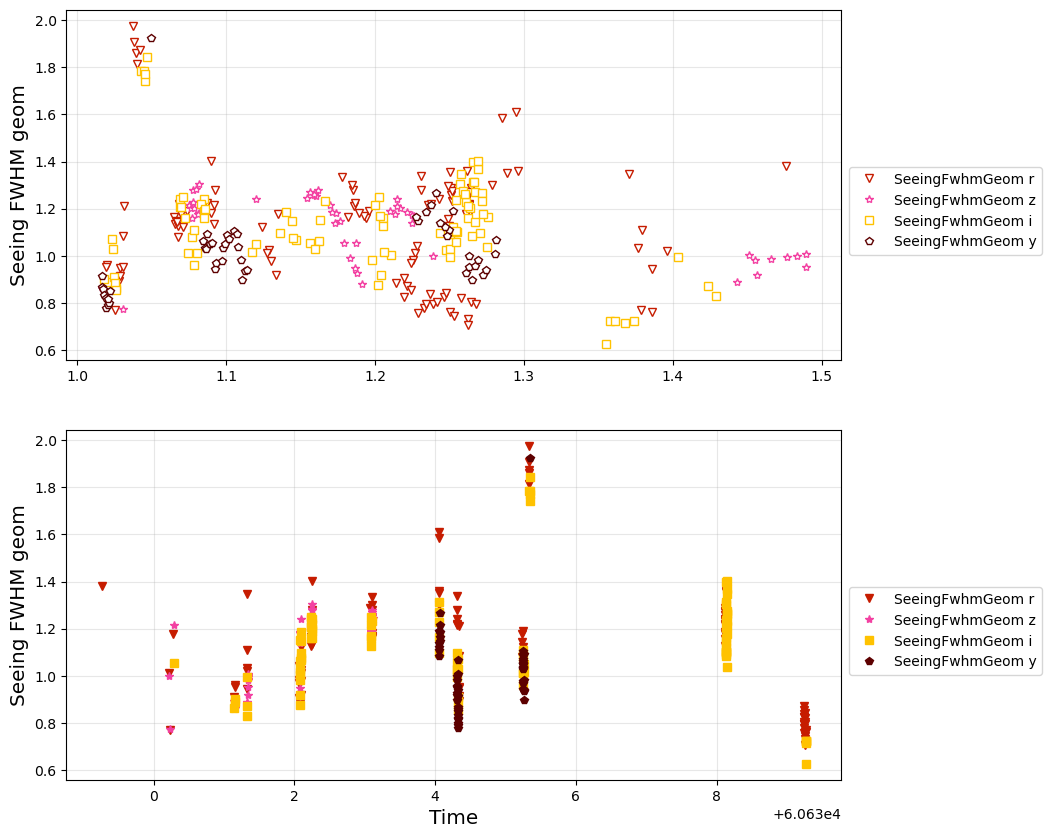
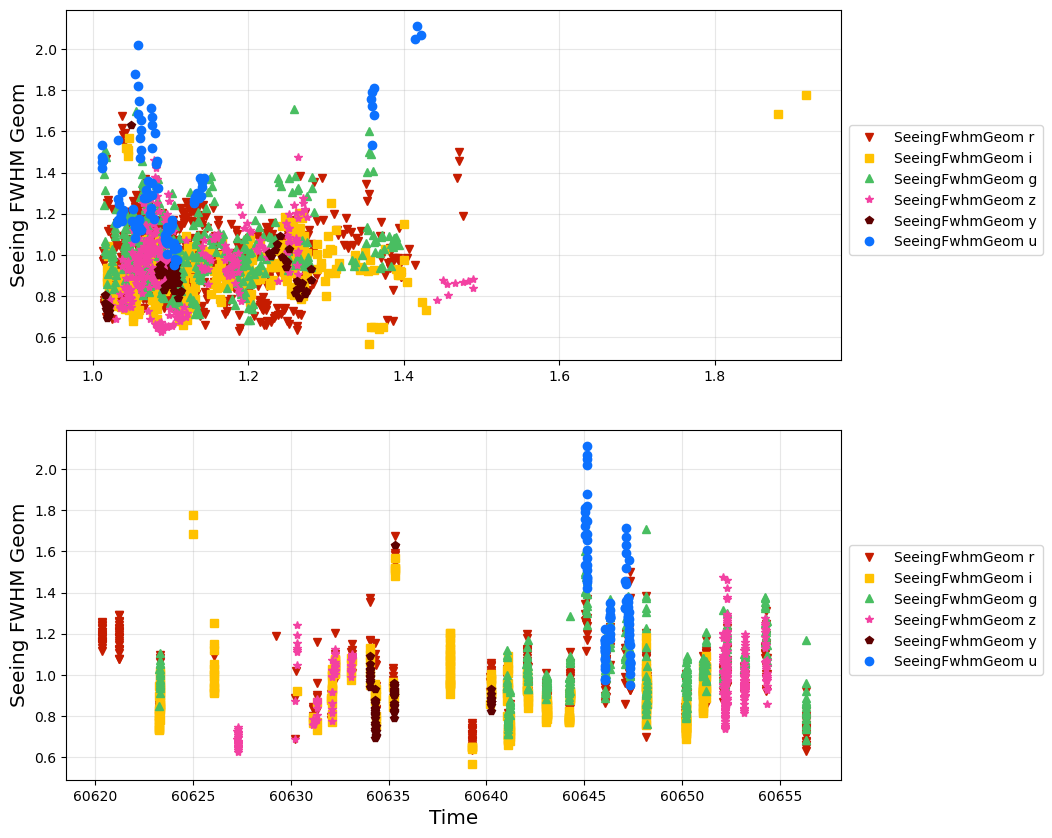
Update sky and seeing plots

diff --git a/survey_performance.tex b/survey_performance.tex
@@ -1,19 +1,17 @@
-Understanding and predicting survey performance includes modeling the likely input telemetry, the expected performance of the telescope and observatory, as well as understanding the survey strategy and its interaction with science outcomes.
+Understanding and predicting survey performance includes modeling the likely input telemetry, the expected performance of the telescope and observatory, as well as understanding the survey strategy and its interaction with science outcomes. At this point in commissioning, the operations of the observatory are focused on obtaining specific observations, with very different strategies than will be employed during operations. This includes very different configurations of the Feature Based Scheduler than would be suitable for survey operations. 
 
-At this point in commissioning, the operations of the observatory are focused on obtaining specific observations, with very different strategies than will be employed during operations. This includes very different configurations of the Feature Based Scheduler. Thus, we are not fully testing the Feature Based Scheduler as it would be used in operations yet, and have few comments about issues that may be related specifically to survey strategy implementation. 
+However, we can begin to evaluate how our models may be validated or not by the currently acquired observations.  Observations were acquired for many purposes, and sometimes purposefully in or out of focus. When identifying suitable observations for comparison purposes, the science observations acquired as part of BLOCK-320  and PP-SURVEY provide the most useful visits. In-focus images taken as part of AOS triplets can also be useful for some purposes. 
 
-However, we can begin to evaluate how our models may be validated or not by the currently acquired observations. Since observations were acquired for many purposes, and sometimes purposefully in or out of focus, the science program BLOCK-320 provides very useful comparison points. In-focus images taken as part of AOS triplets can also be useful for some purposes. And BLOCK-T345 provided an example of slews that are similar to how a standard survey pattern may execute. 
+In this section, information about zeropoints, sky background, and measured image psf is coming from the ConsDb, where these values are populated by Rapid Anaysis running on the summit. These values are only populated for ACQ or OBJECT images where existing calibration data is available. We also use the bad visit list maintained by DM (the \texttt{excluded\_visits} repo) to remove on the order of 100 visits which are clearly marked as bad -- typically due to trails. This leaves us with 5008 useful visits from the ComCam commissioning period.
 
-As we are pulling information about zeropoints, sky background, and measured image psf from the ConsDb, we are using values populated by Rapid Anaysis, running on the summit. These values are only populated for ACQ or OBJECT images where existing calibration data is available. We also use the bad visit list maintained by DM (the \texttt{excluded\_visits} repo) to remove on the order of 100 visits which are clearly marked as bad -- typically due to trails. This leaves us with 5008 exposures from the ComCam commissioning period.
-
-The throughput curves available in \texttt{syseng\_throughputs}, the repository that tracks current system engineering summaries of full-focal-plane throughputs, can be used to predict zeropoints for average ITL CCDs. See \url{https://github.com/lsst-pst/syseng\_throughputs/blob/main/notebooks/InterpolateZeropoint.ipynb}, where a simple interpolation function for filter and airmass is defined for the current throughputs (v1.9).  Looking at only the science program visits (BLOCK-320 and PP-SURVEY), where images could be expected to be in the best possible focus and obtained under more controlled sky conditions (and where all images have 30 second exposures), we can compare the predicted 30s zeropoints to the reported median visit zeropoints in the ConsDB (the column \texttt{visit1\_quicklook.zero\_point\_median}), as shown in \figRef{zeropoints}. It is worth noting that the $u$ band is a significant outlier in this comparison of predicted versus measured zeropoint; we believe this is the same issue as discussed in \secRef{absolutethroughputs}, so is the result of either a miscalibration in the synthetically-derived reference catalog generated for zeropoint calibration or a true underestimate of the system performance in $u$ band.  We find that the estimated zeropoints are fairly close to the achieved zeropoints, except in u band. The median offsets for the photometric nights in the science survey visits are:  u = -0.26, g = 0.14, r = 0.09, i = 0.10, z = 0.13, y = 0.18. 
+The throughput curves available in \texttt{syseng\_throughputs}, the repository that tracks current system engineering summaries of full-focal-plane throughputs, can be used to predict zeropoints for average ITL CCDs. See \url{https://github.com/lsst-pst/syseng\_throughputs/blob/main/notebooks/InterpolateZeropoint.ipynb}, where a simple interpolation function for filter and airmass is defined for the current throughputs (v1.9).  Looking at only the science program visits (BLOCK-320 and PP-SURVEY), where images could be expected to be in the best possible focus and obtained under more controlled sky conditions (and where all images have 30 second exposures), we can compare the predicted 30s zeropoints to the reported median visit zeropoints in the ConsDB (the column \texttt{visit1\_quicklook.zero\_point\_median}), as shown in \figRef{zeropoints}. It is worth noting that the $u$ band is a significant outlier in this comparison of predicted versus measured zeropoint; we believe this is the same issue as discussed in \secRef{absolutethroughputs}, so is the result of either a miscalibration in the synthetically-derived reference catalog generated for zeropoint calibration or a true underestimate of the system performance in $u$ band.  We find that the estimated zeropoints are fairly close to the achieved zeropoints, except in u band. The median offsets for the photometric nights (nights with scatter < 0.3 magnitudes; this is all science program nights except 20241126, 20241209 and 20241210) in the science survey visits are:  u = -0.26, g = 0.14, r = 0.09, i = 0.10, z = 0.13, y = 0.18. 
 
 We applied these offsets as corrections to the zeropoints for all visits, and after also adjusting the measured zeropoints for the exposure time, can compared 1 second predicted and adjusted zeropoints for all visits, as in \figRef{all_zeropoints}.  As an example of a non-photometric night, see also the visits from dayObs 20241210 shown in \figRef{zeropoints_dayobs_20241210}. 
 
 \begin{figure}
     \centering
     \includegraphics[width=0.7\textwidth]{sp/zeropoints.png}
-    \caption{Predicted zeropoints from syseng\_throughputs (accounting for airmass) compared to measured zeropoints from \texttt{cdb\_lsst.comcam.visits1\_quicklook},  for BLOCK-320 and PP-SURVEy visits, excluding dayObs 20241210 which was highly non-photometric. The offsets between predicted and measured zeropoints seen here can be used as a quick approximation for an updated zeropoint and applied to all visits.}
+    \caption{Predicted zeropoints from syseng\_throughputs (accounting for airmass) compared to measured zeropoints from \texttt{cdb\_lsst.comcam.visits1\_quicklook},  for BLOCK-320 and PP-SURVEY visits, excluding dayObs 20241126, 20241209 and  20241210. The offsets between predicted and measured zeropoints seen here can be used as a quick approximation for an updated zeropoint and applied to all visits.}
     \label{fig:zeropoints}
     \end{figure}
 
@@ -33,28 +31,31 @@ We applied these offsets as corrections to the zeropoints for all visits, and af
     \end{figure}
 
 
-Likewise, the survey simulations use a skybackground model as part of the model to determine five sigma visit depths and to choose observation pointings. The outputs available in the ConsDb include a \texttt{sky\_bg\_median} value, which is in counts per pixel. Together with an estimate of the platescale (0.2"/pixel) and a zeropoint, we can convert this into magnitudes per square arcsecond, to compare to the predicted values from the rubin\_scheduler skybrightness model. The results are shown in \figRef{sky}.  The values are also remarkably consistent, with a scatter of less than 0.15 magnitudes in all bands, and offsets within 0.1 magnitude except in y band, where the measured sky is 0.5 magnitudes brighter than expected. This is  within our expected errors in the skybackground model, particularly in y band where the sky is quite variable and harder to model.
+Likewise, the survey simulations use a sky background model as part of predicting five sigma visit depths and to choose observation pointings. The outputs available in the ConsDb include a \texttt{sky\_bg\_median} value, which is in counts per pixel. Together with an estimate of the plate scale (0.2"/pixel) and the zeropoint, we can convert this into magnitudes per square arcsecond, to compare to the predicted values from the rubin\_scheduler sky brightness model. The results are shown in \figRef{sky}, where the adjusted zeropoints with offsets defined above have been used. The measured values are very consistent with the model values for the nights excluding 20241210, with a scatter of less than 0.25 magnitudes in all bands. This is  within our expected errors in the sky background model, particularly in y band where the sky is quite variable and harder to model.
 
 \begin{figure}
     \centering
     \includegraphics[width=0.8\textwidth]{sp/sky.png}
     \caption{Predicted skybrightness values from \texttt{rubin\_sim.skybrightness} compared to
-      \texttt{sky\_bg\_median} converted to mags per sq arcsecond  from  from \texttt{visits1\_quicklook}.}
+      \texttt{sky\_bg\_median} converted to mags per sq arcsecond  using the adjusted zeropoints based on the values in  \texttt{visits1\_quicklook.zero\_point\_median}.}
     \label{fig:sky}
     \end{figure}
 
 
-We look forward to comparing seeing performance to survey predictions. Initial estimates indicate that the mean seeing for these visits was around 1.12 arcseconds, which isn't out of line with longer term survey expectations, especially given that we remain in the early stages of commissioning.
+We look forward to comparing seeing performance to survey predictions. Initial estimates indicate that the approximate equivalent of seeingFwhmEff for these visits had a mean of around 1.15 arcseconds, which isn't out of line with longer term survey expectations, where the mean value is around 1.12 arcseconds. This is particular impressive for this early phase of commissioning. 
 
 \begin{figure}
     \centering
     \includegraphics[width=0.8\textwidth]{sp/seeing.png}
-    \caption{Converting \texttt{psf\_sigma\_median} into the single-gaussian effective seeing PSF values.}
+    \caption{Values of \texttt{psf\_sigma\_median} are converted into \texttt{seeingFwhmGeom} as determined from OR4 simulations. The mean \texttt{seeingFwhmGeom} in simulations is around 0.9 arcseconds, close to the 1.0 arcsecond mean value in these visits.}
     \label{fig:seeing}
     \end{figure}
 
 
-Remaining questions include the efficiency of observations, and in particular the likelihood of whether a single snap will be sufficient.
+Models of the observatory performance 
+
+
+Remaining questions include the efficiency of observations, both sequential observations with standard slew offsets and sustained over many hours and days, and the likelihood of whether a single exposure per visit will be sufficient.
 
 \begin{figure}
     \centering
